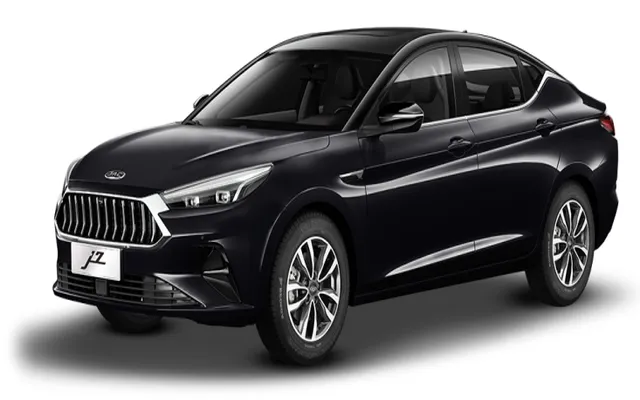
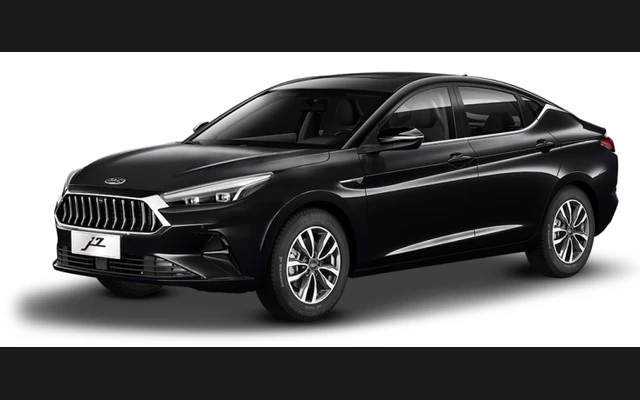
Regenerate all car cards with letterbox-contain (no cropping); change object-fit to contain; up quality to 90%

diff --git a/css/style.css b/css/style.css
@@ -209,7 +209,7 @@ html.menu-open{overflow:hidden}
 .model-card:hover{transform:translateY(-8px);box-shadow:var(--shadow-lg);border-color:var(--gray-300)}
 .model-card.hidden-card{display:none}
 .model-img{position:relative;aspect-ratio:16/10;background:var(--gray-900);display:flex;align-items:center;justify-content:center;overflow:hidden}
-.model-img img{width:100%;height:100%;object-fit:cover;transition:0.4s}
+.model-img img{width:100%;height:100%;object-fit:contain;transition:0.4s}
 .model-card:hover .model-img img{transform:scale(1.05)}
 .model-placeholder{font-size:60px;color:rgba(255,255,255,0.1);transition:0.4s}
 .model-card:hover .model-placeholder{transform:scale(1.1)}
